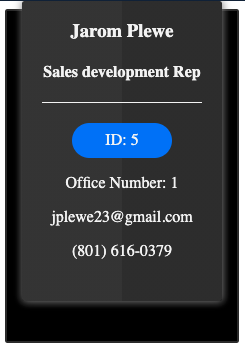
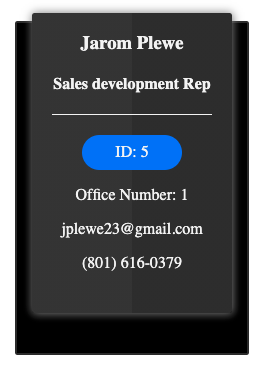
fixed screenshots

diff --git a/assets/style.css b/assets/style.css
@@ -1,7 +1,10 @@
+body {
+    padding: 50px;
+}
+
 .dark-card-wrap {
     /* alignment */
     padding: 10px;
-    margin: 50px;
     text-align: center;
     vertical-align: middle;
     display: table-cell;
